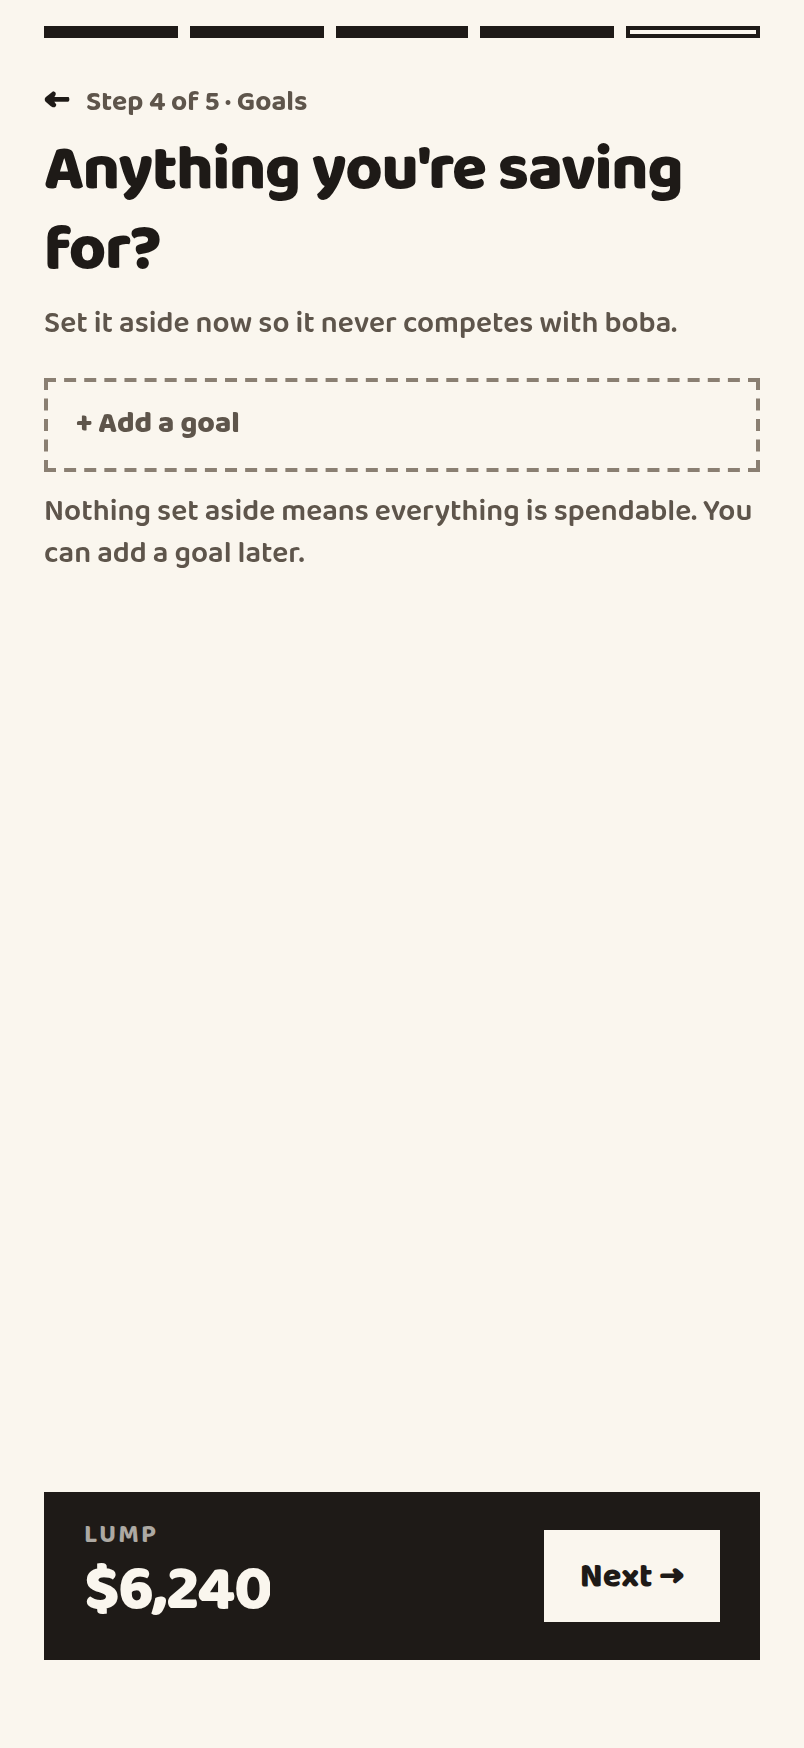
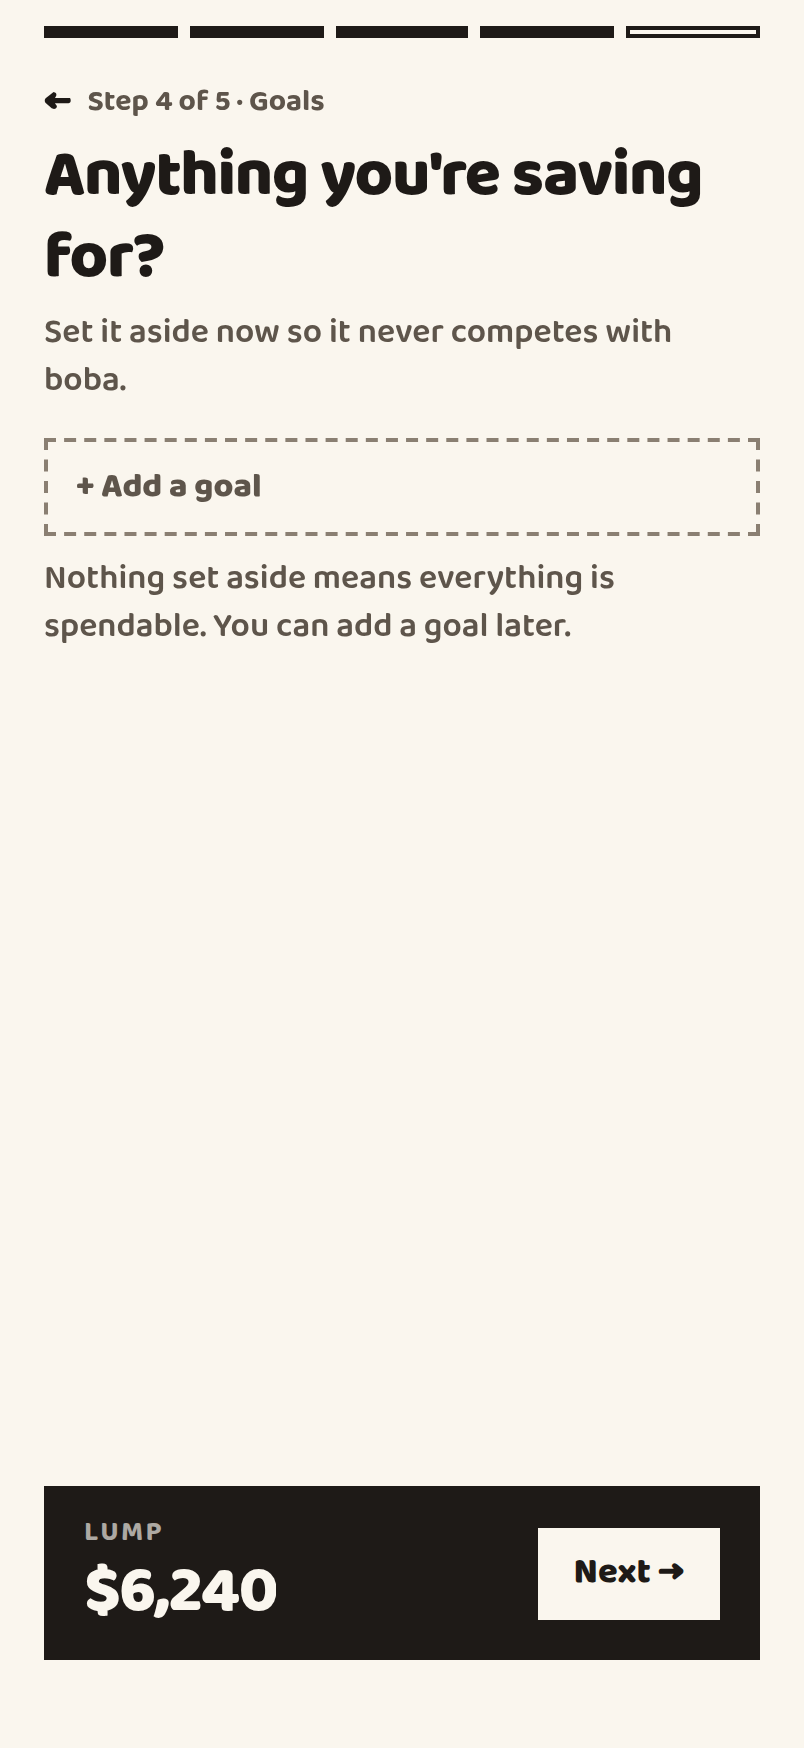
design: bigger type throughout, and a tab bar you can actually hit
Read on a real phone rather than in a design frame, everything sat a
step smaller than comfortable, and the tab labels read as fine print at
the very bottom edge.

Type: the legibility curve in scale.ts goes up across the board — most
for captions and body, where it actually hurt, least for display
numbers, since $1,234.56 at 96pt is already near the edge of a 402pt
screen. One change, so every screen moves together and the proportions
the design set are preserved.

Tab bar: labels from 11pt/700 to 13pt/800, and more air above and below
so the row sits clear of the home indicator instead of hugging it.

Home measures its floating + and toast up from the bottom, so those
offsets moved with the taller bar; the other tab screens flex above it
and needed nothing. Checked every screen for horizontal overflow at the
new scale — cover, all five onboarding steps, four tabs and all seven
Wrapped cards are clean — and recaptured the screenshots.

Note for the team: this touches scale.ts and TabBar, both on the
do-not-touch list. Deliberate, and asked for.

Claude-Session: https://claude.ai/code/session_013rvdnc7B5ipQd2nQZYPPDK

Changed region(s): [[0.0311, 0.0309, 0.9639, 0.3707], [0.0622, 0.8341, 0.9328, 0.9268], [0.9328, 0.2162, 0.9639, 0.2471]]

diff --git a/mobile/app/index.tsx b/mobile/app/index.tsx
@@ -44,7 +44,7 @@ export default function HomeScreen() {
   return (
     <Screen>
       <ScrollView
-        contentContainerStyle={{ paddingBottom: 168 }}
+        contentContainerStyle={{ paddingBottom: 196 }}
         showsVerticalScrollIndicator={false}
         refreshControl={
           <RefreshControl refreshing={refreshing} onRefresh={onRefresh} tintColor={colors.ink} />
@@ -173,14 +173,14 @@ export default function HomeScreen() {
       </ScrollView>
 
       {/* Home is the one screen with a floating +, so the toast clears it. */}
-      {toast ? <Toast message={toast} onDismiss={dismissToast} bottom={168} /> : null}
+      {toast ? <Toast message={toast} onDismiss={dismissToast} bottom={190} /> : null}
 
       <TabBar current="home" />
 
       {/* The menu and its button come last so the scrim dims the tab bar too. */}
       {menuOpen ? (
         <AddMenu
-          bottom={164}
+          bottom={186}
           onDismiss={() => setMenuOpen(false)}
           actions={[
             {
@@ -233,7 +233,7 @@ export default function HomeScreen() {
         />
       ) : null}
 
-      <AddButton open={menuOpen} bottom={96} onToggle={() => setMenuOpen((open) => !open)} />
+      <AddButton open={menuOpen} bottom={118} onToggle={() => setMenuOpen((open) => !open)} />
     </Screen>
   );
 }

diff --git a/mobile/src/ui/TabBar.tsx b/mobile/src/ui/TabBar.tsx
@@ -33,9 +33,13 @@ export function TabBar({ current }: { current: TabId }) {
         borderColor: colors.ink,
         backgroundColor: colors.cream,
         flexDirection: 'row',
-        paddingTop: 12,
+        // Sat too close to the bottom edge to hit comfortably, and the labels
+        // read as fine print next to the rest of the app. More air above and
+        // below lifts the row clear of the home indicator without turning the
+        // bar into a slab.
+        paddingTop: 18,
         paddingHorizontal: GUTTER,
-        paddingBottom: insets.bottom > 0 ? insets.bottom + 4 : HOME_INDICATOR_GAP,
+        paddingBottom: insets.bottom > 0 ? insets.bottom + 14 : HOME_INDICATOR_GAP + 12,
       }}>
       {TABS.map((tab) => {
         const focused = tab.id === current;
@@ -48,7 +52,7 @@ export function TabBar({ current }: { current: TabId }) {
             disabled={focused}
             onPress={() => router.replace(tab.href)}
             style={({ pressed }) => ({ flex: 1, opacity: pressed ? 0.6 : 1 })}>
-            <T w={700} size={11} tracking={0.06} caps center color={focused ? colors.ink : colors.tan}>
+            <T w={800} size={13} tracking={0.05} caps center color={focused ? colors.ink : colors.tan}>
               {tab.label}
             </T>
           </Pressable>

diff --git a/mobile/src/theme/scale.ts b/mobile/src/theme/scale.ts
@@ -30,12 +30,20 @@ const widthFactor = Math.max(
   Math.min(Dimensions.get('window').width, MAX_WIDTH) / DESIGN_WIDTH,
 );
 
-/** How much of a legibility bump a given size gets, on top of the width factor. */
+/**
+ * How much of a legibility bump a given size gets, on top of the width factor.
+ *
+ * Raised across the board after reading the app on a real phone rather than in
+ * a design frame — everything was a step smaller than comfortable. Body and
+ * caption text moves most, because that's where it hurt; display numbers move
+ * least, since `$1,234.56` at 48pt is already close to the edge of a 402pt
+ * screen and the `fit` prop is what saves it when it isn't.
+ */
 function legibility(size: number): number {
-  if (size <= 13) return 1.15;
-  if (size <= 20) return 1.1;
-  if (size <= 40) return 1.05;
-  return 1;
+  if (size <= 13) return 1.28;
+  if (size <= 20) return 1.2;
+  if (size <= 40) return 1.1;
+  return 1.04;
 }
 
 /** A font size from the design, corrected for this screen. */
@@ -49,7 +57,7 @@ export function scaleFont(size: number): number {
  * columns don't start clipping once the type grows.
  */
 export function scaleWidth(px: number): number {
-  return Math.round(px * widthFactor * 1.1);
+  return Math.round(px * widthFactor * 1.2);
 }
 
 /**
